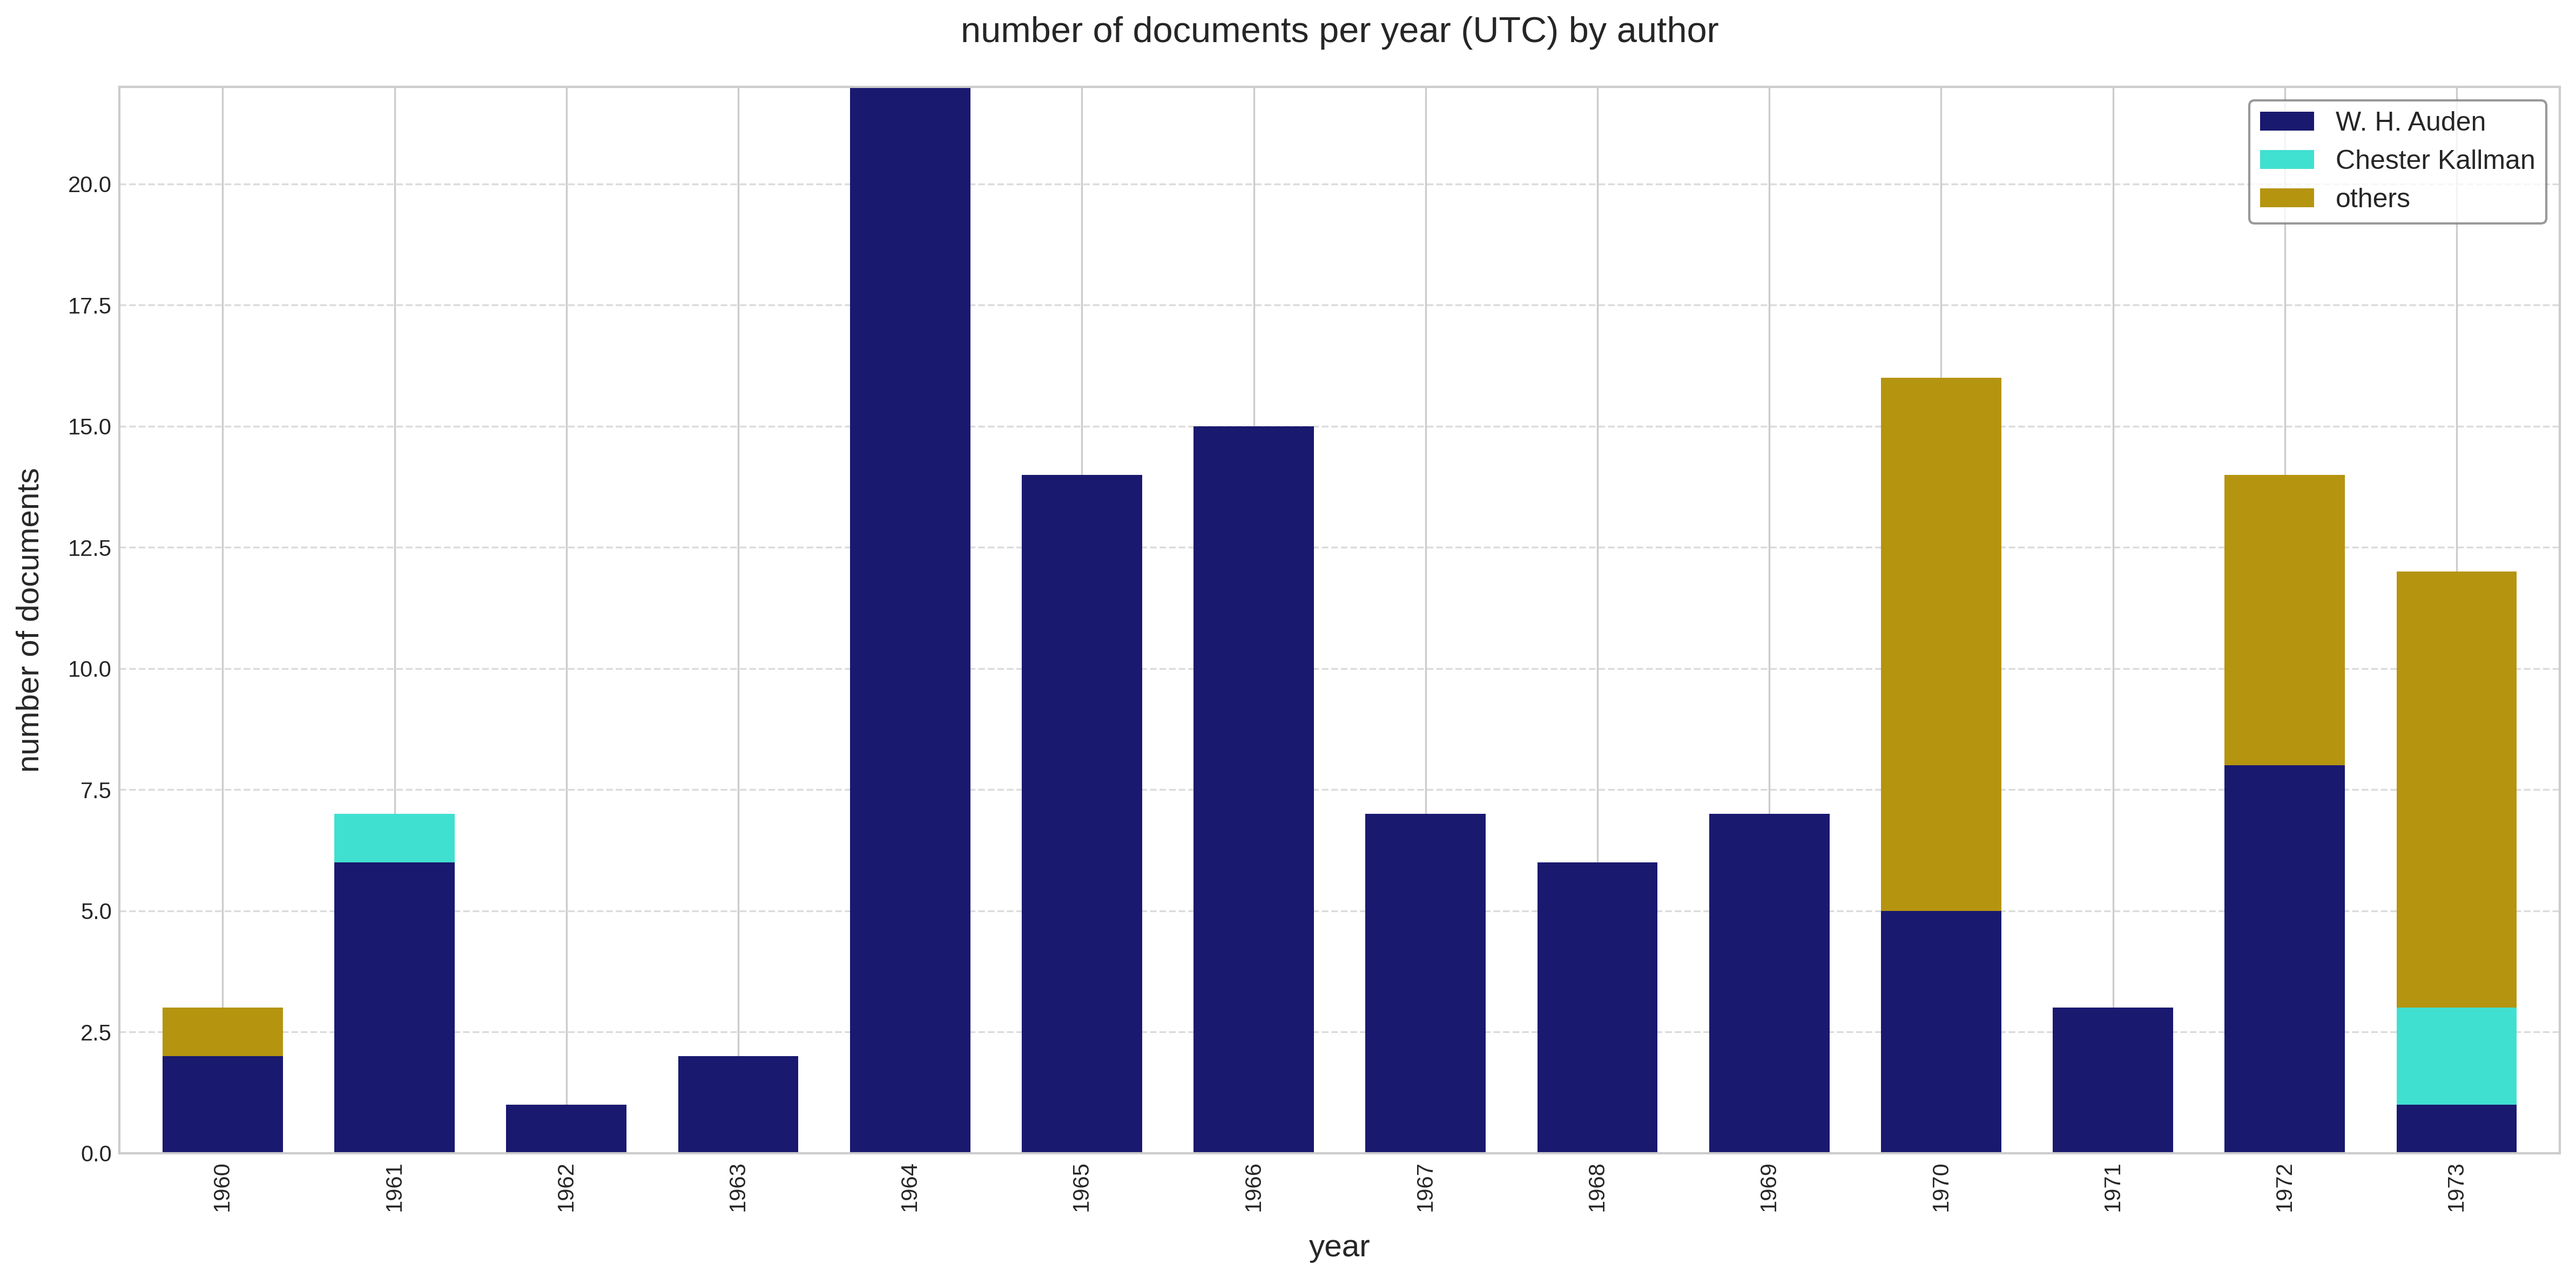
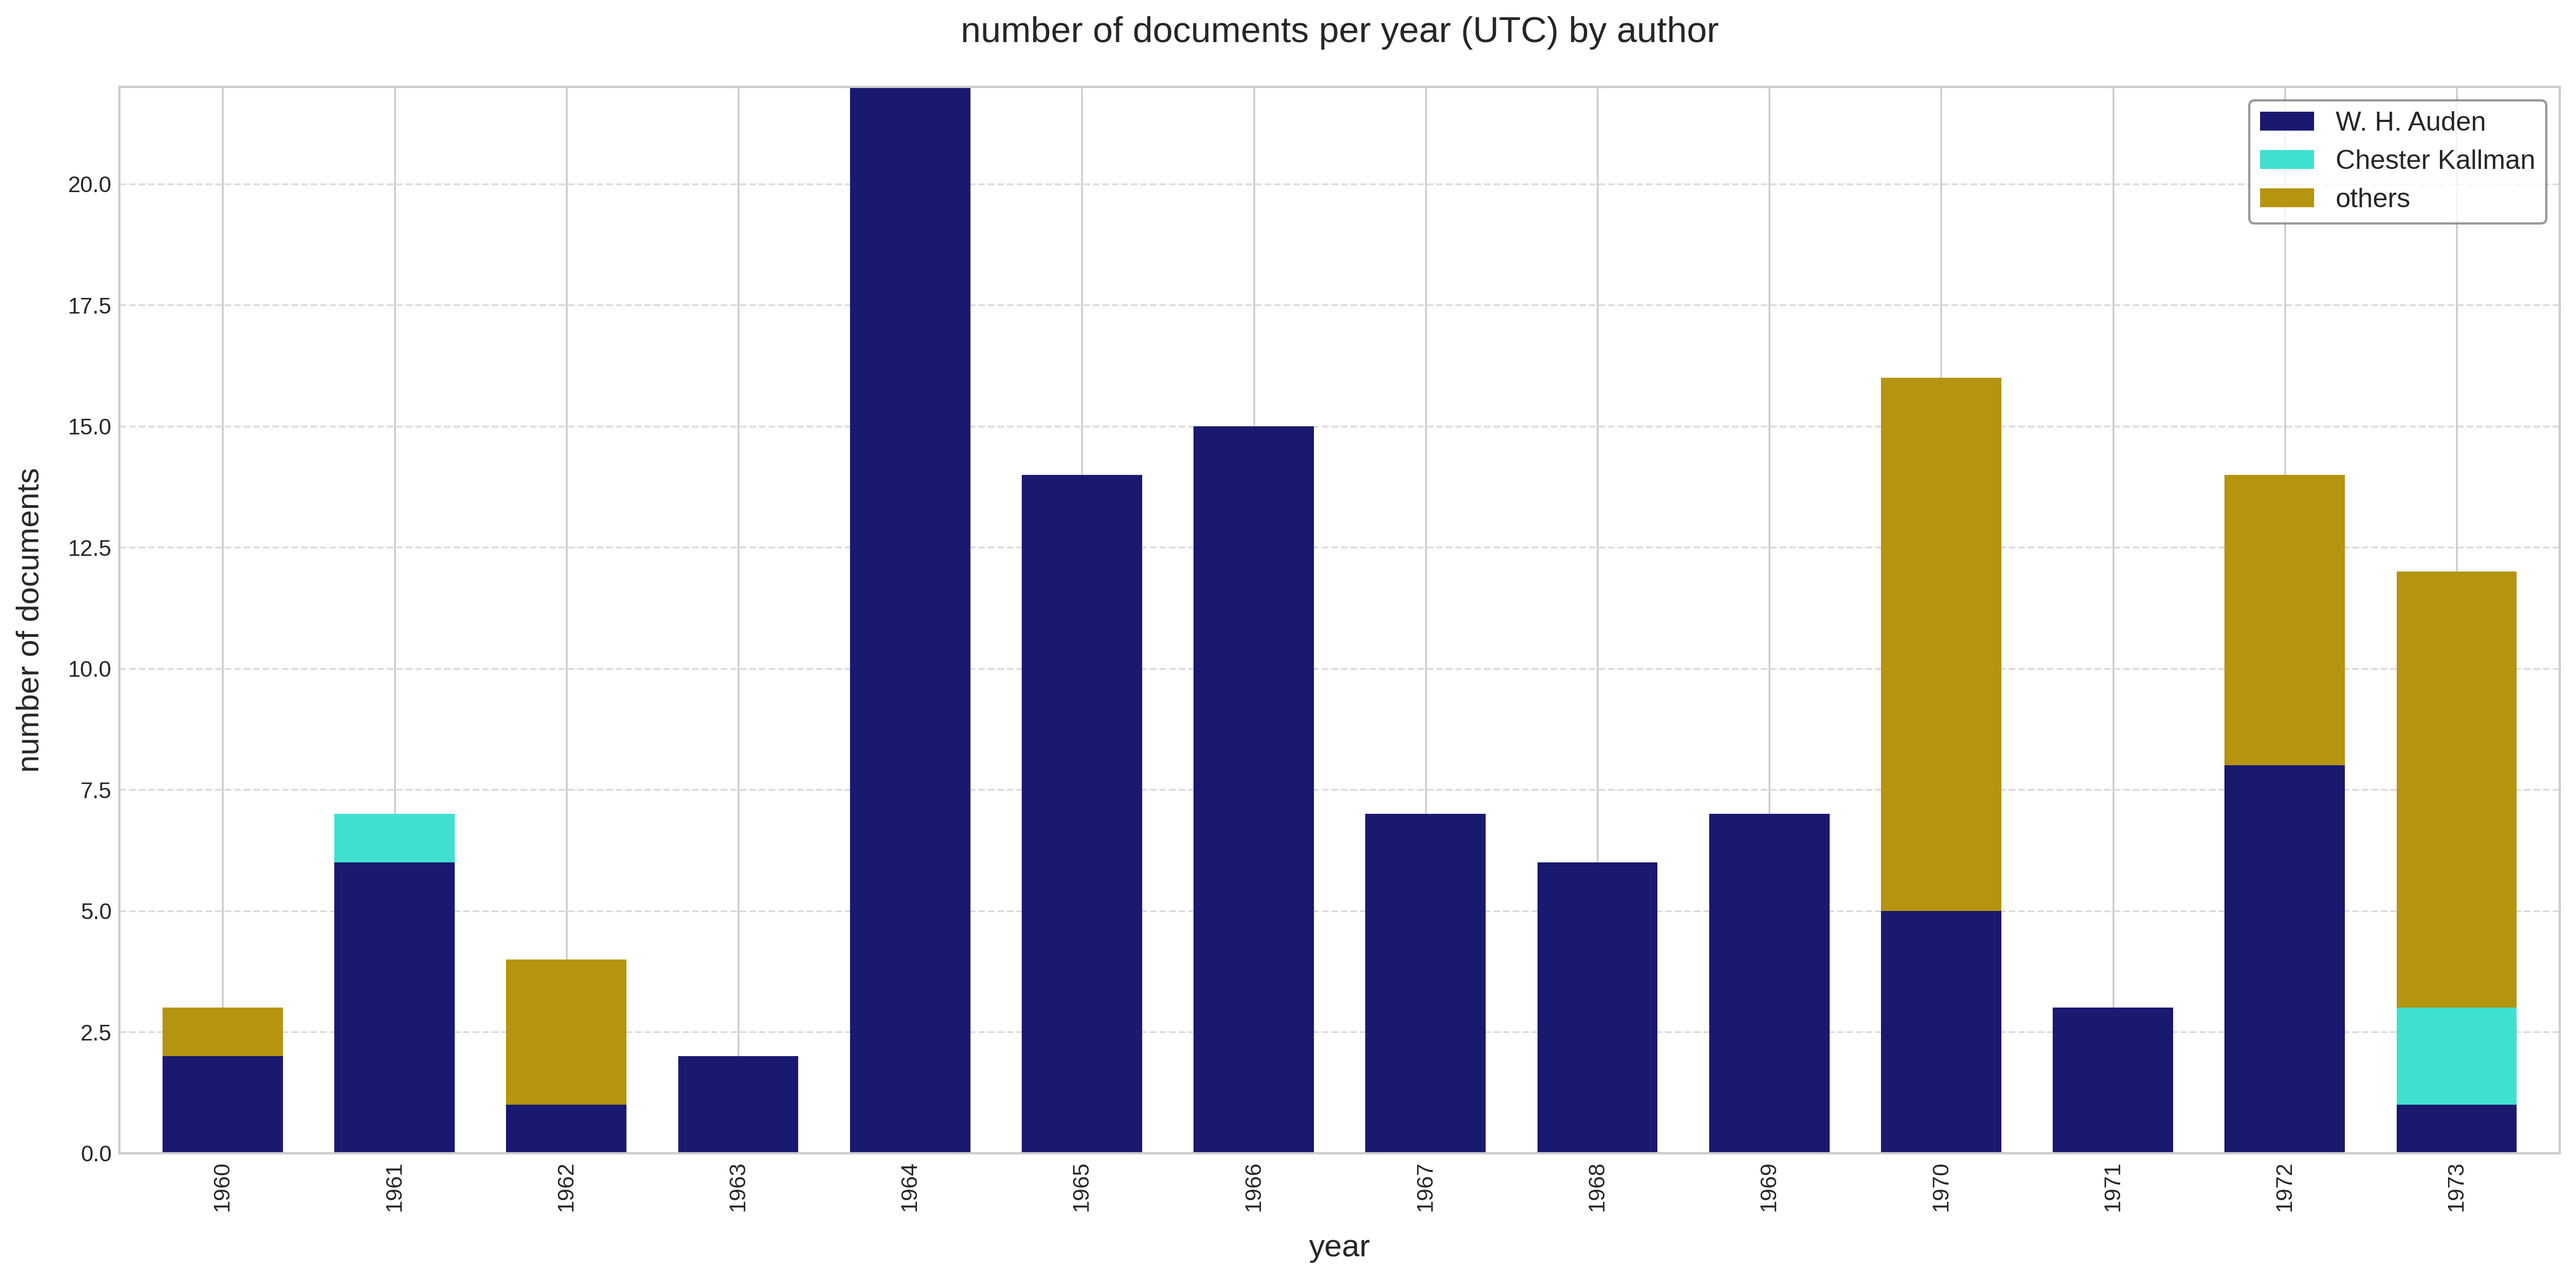
output csv written

Changed region(s): [[0.1874, 0.7494, 0.2499, 0.8743]]

diff --git a/metadata/md/metadata-analysis.md b/metadata/md/metadata-analysis.md
@@ -133,6 +133,9 @@ doc
 0127         Bronold, Hella                                                                                                                      Copy Typed Letter Hella Bronold to Hilde Spiel 1970-09-03                         Vienna
 0128        Kraus, Wolfgang                                                                                                                     Copy Typed Letter Wolfgang Kraus to W. H. Auden 1970-07-31                         Vienna
 0129        Kraus, Wolfgang                                                                                                                     Copy Typed Letter Wolfgang Kraus to W. H. Auden 1970-06-29                         Vienna
+0130        Kraus, Wolfgang                                                                                                              Copy Typed Letter Signed Wolfgang Kraus to W. H. Auden 1962-10-05                         Vienna
+0131        Kraus, Wolfgang                                                                                                                     Copy Typed Letter Wolfgang Kraus to W. H. Auden 1962-09-14                         Vienna
+0132         Bronold, Hella                                                                                                                      Copy Typed Letter Hella Bronold to W. H. Auden 1962-10-09                         Vienna
 ```
 
 ### distribution per month
@@ -170,30 +173,30 @@ dtype: int64
 ### `df.info()`
 ```
 <class 'pandas.DataFrame'>
-RangeIndex: 390 entries, 0 to 389
+RangeIndex: 398 entries, 0 to 397
 Data columns (total 19 columns):
  #   Column          Non-Null Count  Dtype
 ---  ------          --------------  -----
- 0   img             390 non-null    int64
- 1   lrx             390 non-null    int64
- 2   lry             390 non-null    int64
- 3   width           390 non-null    int64
- 4   height          390 non-null    int64
- 5   type            390 non-null    str  
- 6   ed              390 non-null    str  
- 7   doc             390 non-null    str  
- 8   title           390 non-null    str  
- 9   author          390 non-null    str  
- 10  author-uri      390 non-null    str  
- 11  notBefore-iso   390 non-null    str  
- 12  notAfter-iso    390 non-null    str  
- 13  place           390 non-null    str  
- 14  place-uri       390 non-null    str  
- 15  repository      390 non-null    str  
- 16  repository-uri  390 non-null    str  
- 17  collection      390 non-null    str  
- 18  idno            390 non-null    str  
+ 0   img             398 non-null    int64
+ 1   lrx             398 non-null    int64
+ 2   lry             398 non-null    int64
+ 3   width           398 non-null    int64
+ 4   height          398 non-null    int64
+ 5   type            398 non-null    str  
+ 6   ed              398 non-null    str  
+ 7   doc             398 non-null    str  
+ 8   title           398 non-null    str  
+ 9   author          398 non-null    str  
+ 10  author-uri      398 non-null    str  
+ 11  notBefore-iso   398 non-null    str  
+ 12  notAfter-iso    398 non-null    str  
+ 13  place           398 non-null    str  
+ 14  place-uri       398 non-null    str  
+ 15  repository      398 non-null    str  
+ 16  repository-uri  398 non-null    str  
+ 17  collection      398 non-null    str  
+ 18  idno            398 non-null    str  
 dtypes: int64(5), str(14)
-memory usage: 58.0 KB
+memory usage: 59.2 KB
 
 ```
